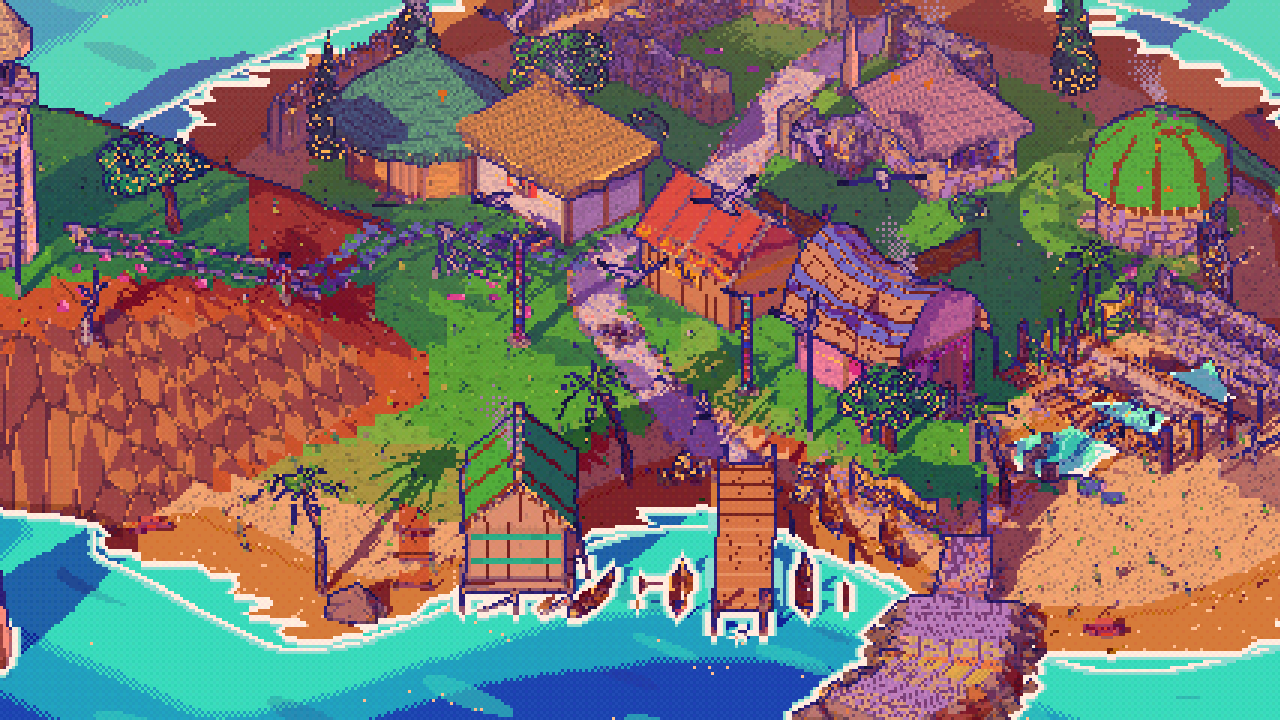
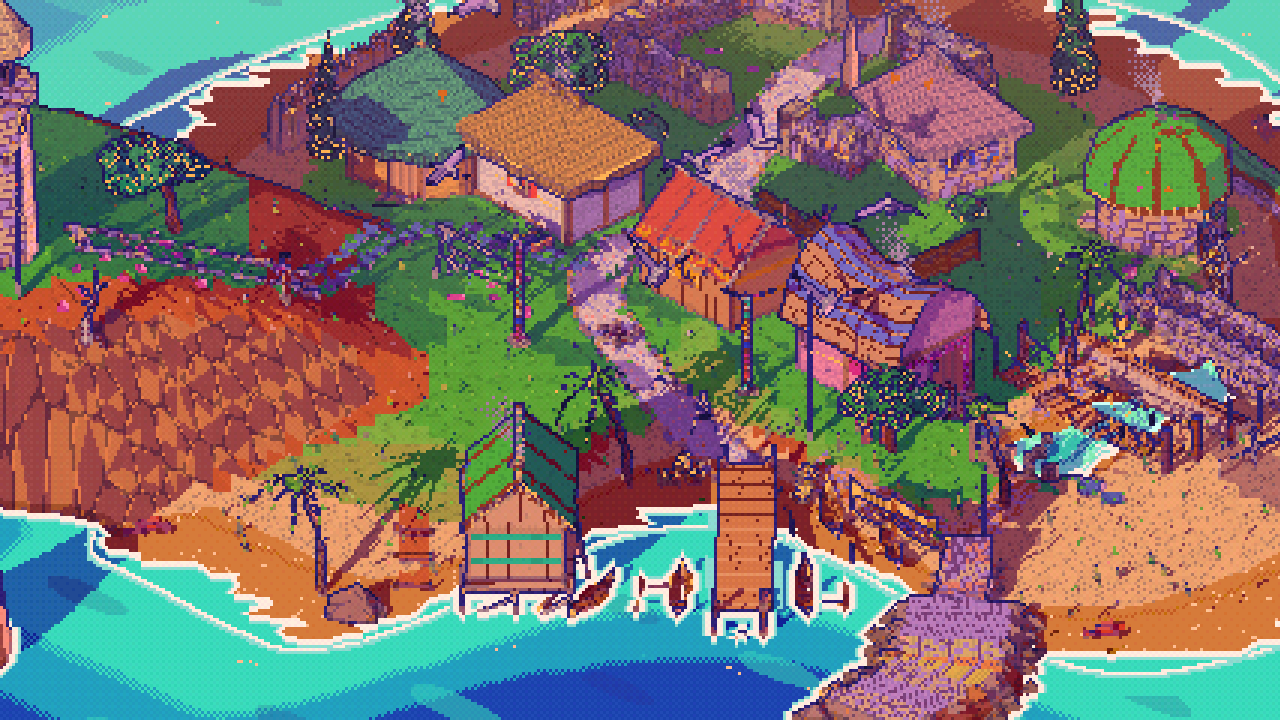
Fix loop 3: smoke back to green, letterbox input, windbreak gaps
The 30 degree camera broke the Dye smoke step: it aimed 0.5 m over a 0.35 m
firepit and at a causeway that the huts built later now hide, so the bridge
half never dyed anything. The firepit click now aims into the logs, and the
bridge check is its own step, run right after the bridges are built and aimed
at the causeway's solid end. Each Dye check now requires exactly one structure
to change, with its kind and hangings kept. Smoke passes 81/81.

Clicks in the letterbox bars give no cursor ray, so tools ignore them. Pan and
raise drags divide by the shown image height (240 x scale) rather than the
window height, so the ground stays under the cursor.

Windbreaks size track gaps by crossing angle, like dykes, using a 0.3 m depth.
The demo net lines sit 0.8 m further seaward so the parallel pebble track does
not cut a whole short net away. Docs screenshots regenerated.

Claude-Session: https://claude.ai/code/session_019wjtgn11rMa4FYaYgyA8E4

diff --git a/tiny-cove/src/tools/smoke.rs b/tiny-cove/src/tools/smoke.rs
@@ -136,6 +136,22 @@ fn raise(a: Vec2, b: Vec2, px: f32) -> Vec<Act> {
     v
 }
 
+/// Check for a plain Dye click: exactly one structure changed, it now matches `dyed`, and no
+/// prop or bridge changed kind or hangings.
+fn dye_kept_kinds(b: &Document, a: &Document, dyed: impl Fn(&Structure) -> bool) -> Result<(), String> {
+    ok_if(a.structures.len() == b.structures.len(), || "structure count changed".into())?;
+    let changed: Vec<_> = b.structures.iter().zip(&a.structures).filter(|(x, y)| x != y).collect();
+    for ((_, x), (_, y)) in &changed {
+        match (x, y) {
+            (Structure::Placed(p), Structure::Placed(q)) => ok_if(p.kind == q.kind, || format!("prop {:?} -> {:?}", p.kind, q.kind))?,
+            (Structure::Bridge(p), Structure::Bridge(q)) => ok_if(p.kind == q.kind && p.hanging == q.hanging, || format!("bridge {:?} -> {:?}", p.kind, q.kind))?,
+            _ => {}
+        }
+    }
+    let names: Vec<String> = changed.iter().map(|((_, x), _)| format!("{x:?}").chars().take(80).collect()).collect();
+    ok_if(changed.len() == 1 && dyed(&changed[0].1.1), || format!("dyed {names:?}"))
+}
+
 fn count(d: &Document, f: impl Fn(&Structure) -> bool) -> usize {
     d.structures.iter().filter(|(_, s)| f(s)).count()
 }
@@ -310,6 +326,16 @@ fn steps() -> Vec<Step> {
         ));
     }
 
+    // Dye a bridge while nothing stands in front of it yet (the huts built later hide the
+    // bridges from a 30 degree camera): the causeway keeps its kind and hangings although the
+    // Dye settings hold a rope bridge with lanterns. (The log bridge in front lies flush with
+    // flat ground, so the ray clears it.) The click lands on the solid end, not over the arch.
+    v.push(step(
+        "dye click keeps bridge kind",
+        with(vec![key(Tool::Dye), set(|s| { s.bridge = BridgeKind::Rope { railing: 0 }; s.hanging = Hanging::Lanterns; s.colors.trim = 3; s.dye = None; })], click(sd(5.0, -19.0), 0.3)),
+        |b, a, _| dye_kept_kinds(b, a, |s| matches!(s, Structure::Bridge(p) if p.kind == BridgeKind::Causeway && p.colors.trim == 3)),
+    ));
+
     // Windbreaks.
     for (i, kind) in [FenceKind::Driftwood, FenceKind::Wattle, FenceKind::NetLine, FenceKind::Reed].into_iter().enumerate() {
         let s0 = 2.0 + 2.0 * i as f32;
@@ -478,24 +504,12 @@ fn steps() -> Vec<Step> {
         ok_if(a.structures.len() + 1 == b.structures.len() && cairns(a) + 1 == cairns(b), || format!("{} -> {} structures", b.structures.len(), a.structures.len()))
     }));
 
-    // Dye recolours only: a click on a prop, a causeway and a firepit keeps their kinds.
+    // Dye recolours only: a click on a firepit keeps its kind (the Dye settings hold a canoe).
+    // The firepit stands ~0.35 m tall: aim into its logs.
     v.push(step(
-        "dye click keeps prop and bridge kinds",
-        with(
-            vec![key(Tool::Dye), set(|s| { s.clutter = ClutterKind::Canoe; s.bridge = BridgeKind::Rope { railing: 0 }; s.hanging = Hanging::Lanterns; s.tree = TreeKind::Palm; s.colors.trim = 3; s.dye = None; })],
-            with(click(slot(7), 0.5), click(sd(5.0, -16.5), 0.5)),
-        ),
-        |b, a, _| {
-            ok_if(a.structures.len() == b.structures.len() && a != b, || "nothing dyed".into())?;
-            for ((_, x), (_, y)) in b.structures.iter().zip(&a.structures) {
-                match (x, y) {
-                    (Structure::Placed(p), Structure::Placed(q)) => ok_if(p.kind == q.kind, || format!("prop {:?} -> {:?}", p.kind, q.kind))?,
-                    (Structure::Bridge(p), Structure::Bridge(q)) => ok_if(p.kind == q.kind && p.hanging == q.hanging, || format!("bridge {:?} -> {:?}", p.kind, q.kind))?,
-                    _ => {}
-                }
-            }
-            ok_if(count(a, |s| matches!(s, Structure::Placed(p) if p.kind == PropKind::Clutter(ClutterKind::Firepit) && p.colors.trim == 3)) == 1, || "firepit not recoloured".into())
-        },
+        "dye click keeps prop kind",
+        with(vec![key(Tool::Dye), set(|s| { s.clutter = ClutterKind::Canoe; s.tree = TreeKind::Palm; s.colors.trim = 3; s.dye = None; })], click(slot(7), 0.2)),
+        |b, a, _| dye_kept_kinds(b, a, |s| matches!(s, Structure::Placed(p) if p.kind == PropKind::Clutter(ClutterKind::Firepit) && p.colors.trim == 3)),
     ));
 
     // Tree drag scatters trees along the path; one undo takes the whole scatter back.

diff --git a/tiny-cove/core/src/scene.rs b/tiny-cove/core/src/scene.rs
@@ -143,7 +143,7 @@ pub fn build(doc: &Document) -> Scene {
                 house_mesh(h, &cuts, &terrain, seed)
             }
             Structure::Fence(f) => {
-                let cuts = cuts_through(&f.points, 0.4, None, 3.0);
+                let cuts = cuts_through(&f.points, 0.4, Some(FENCE_DEPTH), 3.0);
                 blockers.push(ribbon(&f.points, 0.6));
                 fence_mesh(f, &cuts, &terrain, seed)
             }
@@ -305,6 +305,9 @@ pub struct Hit {
     /// closest to the hit; 0 for other structures and terrain.
     pub along: f32,
 }
+
+/// Depth of a windbreak for sizing a track gap by its crossing angle (posts and panels).
+const FENCE_DEPTH: f32 = 0.3;
 
 /// How close (metres, on the water plane) a ray must pass to a mesh-less floating prop.
 const FLOAT_PICK_RADIUS: f32 = 1.5;
@@ -506,6 +509,27 @@ mod tests {
                     }
                 }
                 assert!(blocked(&doc, &s, wall, Vec2::new(-17.0, -5.0), Vec2::new(-17.0, 5.0)), "{deg} {thickness}");
+            }
+        }
+    }
+
+    /// A windbreak crossed at a shallow angle opens wide enough for the track too.
+    #[test]
+    fn shallow_crossings_of_windbreaks_pass() {
+        for kind in [FenceKind::Wattle, FenceKind::Driftwood, FenceKind::NetLine, FenceKind::Reed] {
+            for deg in [15.0_f32, 20.0, 45.0] {
+                let mut doc = flat_doc(3);
+                let fence = doc.add(Structure::Fence(Fence { points: vec![Vec2::new(-20.0, 0.0), Vec2::new(20.0, 0.0)], kind, colors: Colors::default() }));
+                let d = Vec2::from_angle(deg.to_radians());
+                track(&mut doc, -d * 9.0, d * 9.0);
+                let s = build(&doc);
+                for lift in [0.4, 1.0] {
+                    for lat in [-0.4, 0.0, 0.4] {
+                        let what = format!("{kind:?} {deg} deg, {lift} m up, {lat} m aside");
+                        assert!(!blocked_at(&doc, &s, fence, -d * 9.0, d * 9.0, lift, lat), "{what}");
+                        assert!(!blocked_at(&doc, &s, fence, d * 9.0, -d * 9.0, lift, lat), "{what}, back");
+                    }
+                }
             }
         }
     }

diff --git a/tiny-cove/src/render/mod.rs b/tiny-cove/src/render/mod.rs
@@ -471,7 +471,17 @@ pub fn cursor_ray(
 ) -> Option<Ray3d> {
     let physical = window.physical_size();
     let p = window_to_low_res(window_cursor * window.scale_factor(), display_scale(physical.y), display_offset(physical));
-    cam.viewport_to_world(cam_tf, p.clamp(Vec2::ZERO, low_res.as_vec2())).ok()
+    // The letterbox bars are not part of the image: no ray there, so tools ignore them.
+    if !(p.cmpge(Vec2::ZERO).all() && p.cmple(low_res.as_vec2()).all()) {
+        return None;
+    }
+    cam.viewport_to_world(cam_tf, p).ok()
+}
+
+/// Height in logical px of the shown (letterboxed) image: the [`VIEW_HEIGHT`] metres span
+/// this many px, not the whole window.
+pub fn image_height(window: &Window) -> f32 {
+    (LOW_RES_HEIGHT * display_scale(window.physical_size().y)) as f32 / window.scale_factor()
 }
 
 /// Saves `image` (PNG by extension), creating parent directories.

diff --git a/tiny-cove/core/src/demo.rs b/tiny-cove/core/src/demo.rs
@@ -290,7 +290,7 @@ pub fn demo_document(seed: u64) -> Document {
     // ------------------------------------------------------------------ windbreaks
     let fence = |pts: Vec<Vec2>, kind: FenceKind, c: Colors| Structure::Fence(Fence { points: pts, kind, colors: c });
     for (b0, b1, trim) in [(-5.5, -8.5, 0u8), (-11.5, -14.5, 3)] {
-        let line = vec![f.local(shore_a(t, &f, b0) - 3.2, b0), f.local(shore_a(t, &f, b1) - 3.2, b1)];
+        let line = vec![f.local(shore_a(t, &f, b0) - 2.4, b0), f.local(shore_a(t, &f, b1) - 2.4, b1)];
         d.add(fence(line, FenceKind::NetLine, colors(0, 0, trim)));
     }
     d.add(fence(vec![s(-3.0, -5.5), s(3.5, -5.5), s(4.5, -8.5)], FenceKind::Wattle, colors(0, 0, 0)));

diff --git a/tiny-cove/src/camera.rs b/tiny-cove/src/camera.rs
@@ -166,7 +166,7 @@ fn drive_camera(
     let f = axis(&[KeyCode::KeyW, KeyCode::ArrowUp], &[KeyCode::KeyS, KeyCode::ArrowDown]);
     let mut delta = (right * k + up * f) * PAN_SPEED * rig.zoom * dt;
     if pan {
-        let h = window.map_or(720.0, |w| w.height()).max(1.0);
+        let h = window.map_or(720.0, |w| crate::render::image_height(&w)).max(1.0);
         let per_px = crate::render::VIEW_HEIGHT * rig.zoom / h;
         let sin_p = rig.pitch_deg.to_radians().sin().max(0.2);
         delta += -right * motion.delta.x * per_px + up * (motion.delta.y * per_px / sin_p);

diff --git a/tiny-cove/src/tools.rs b/tiny-cove/src/tools.rs
@@ -1138,7 +1138,7 @@ fn drive_tools(
             steps,
             dt: time.delta_secs(),
         };
-        let win_h = window.as_ref().map_or(720.0, |w| w.height()).max(1.0);
+        let win_h = window.as_ref().map_or(720.0, |w| crate::render::image_height(w)).max(1.0);
         let mut cx = Cx {
             s: &mut s,
             glade: g,

diff --git a/tiny-cove/TASKS.md b/tiny-cove/TASKS.md
@@ -58,6 +58,16 @@ to `main`.
   seafog 5, snow 7.5. Fix loop 2 targets the look (fog, storm, dusk, sky band, lantern pools),
   shallow-angle dyke cuts, the camera clamp and the emissive rule.
 - SPEC/DESIGN amended to match the shipped trim rows and the jetty mooring depth (63ac7c9).
+- Final gate (after fix loop 2): Done 1–4 pass except smoke 79/80, broken by the new 30° camera
+  (the Dye clicks aimed over a 0.35 m firepit and at a causeway that huts now hide). Look
+  scores: noon 7.5, dusk-rain 6.5, night 7, storm 6, seafog 6, snow 7.5, hud 7.5, hero 8.
+- Fix loop 3 (last): Dye smoke steps re-aimed and split so each one actually recolours its
+  target (smoke 81/81); clicks in the letterbox bars no longer build; pan and raise drags track
+  the shown image height; windbreak gaps are sized by crossing angle like dykes (demo nets moved
+  0.8 m seaward so a parallel beach track no longer swallows one).
+- Known issues left open: neighbouring huts the terrace rule keeps apart can leave floors
+  0.3–0.6 m uneven; a track through a roofed ring raises the whole ring about 2 m; dusk-rain
+  sand reads rust rather than honey; storm land is dark; sea fog washes out the back roofs.
 
 ## Tasks
 | # | Task | Files | Model | Deps | State |
@@ -72,4 +82,4 @@ to `main`.
 | F | Look: atlas, palette, sea, wind, weather, sky | src/render/*, core/src/palette.rs, src/weather.rs, src/env.rs | frontier | 0,1 | done |
 | G | Tools, HUD, smoke | src/tools.rs, src/tools/smoke.rs, src/ui.rs, src/ui/strip.rs, src/camera.rs | mid-tier | 0,1 | done |
 | H | Life: gulls, crabs, fish, boats, smoke, fire | src/life.rs | mid-tier | 0 | done |
-| V | Verification gate | — | mixed tiers | A–H | loop 2 of 3 |
+| V | Verification gate | — | mixed tiers | A–H | done (3 of 3 loops) |
